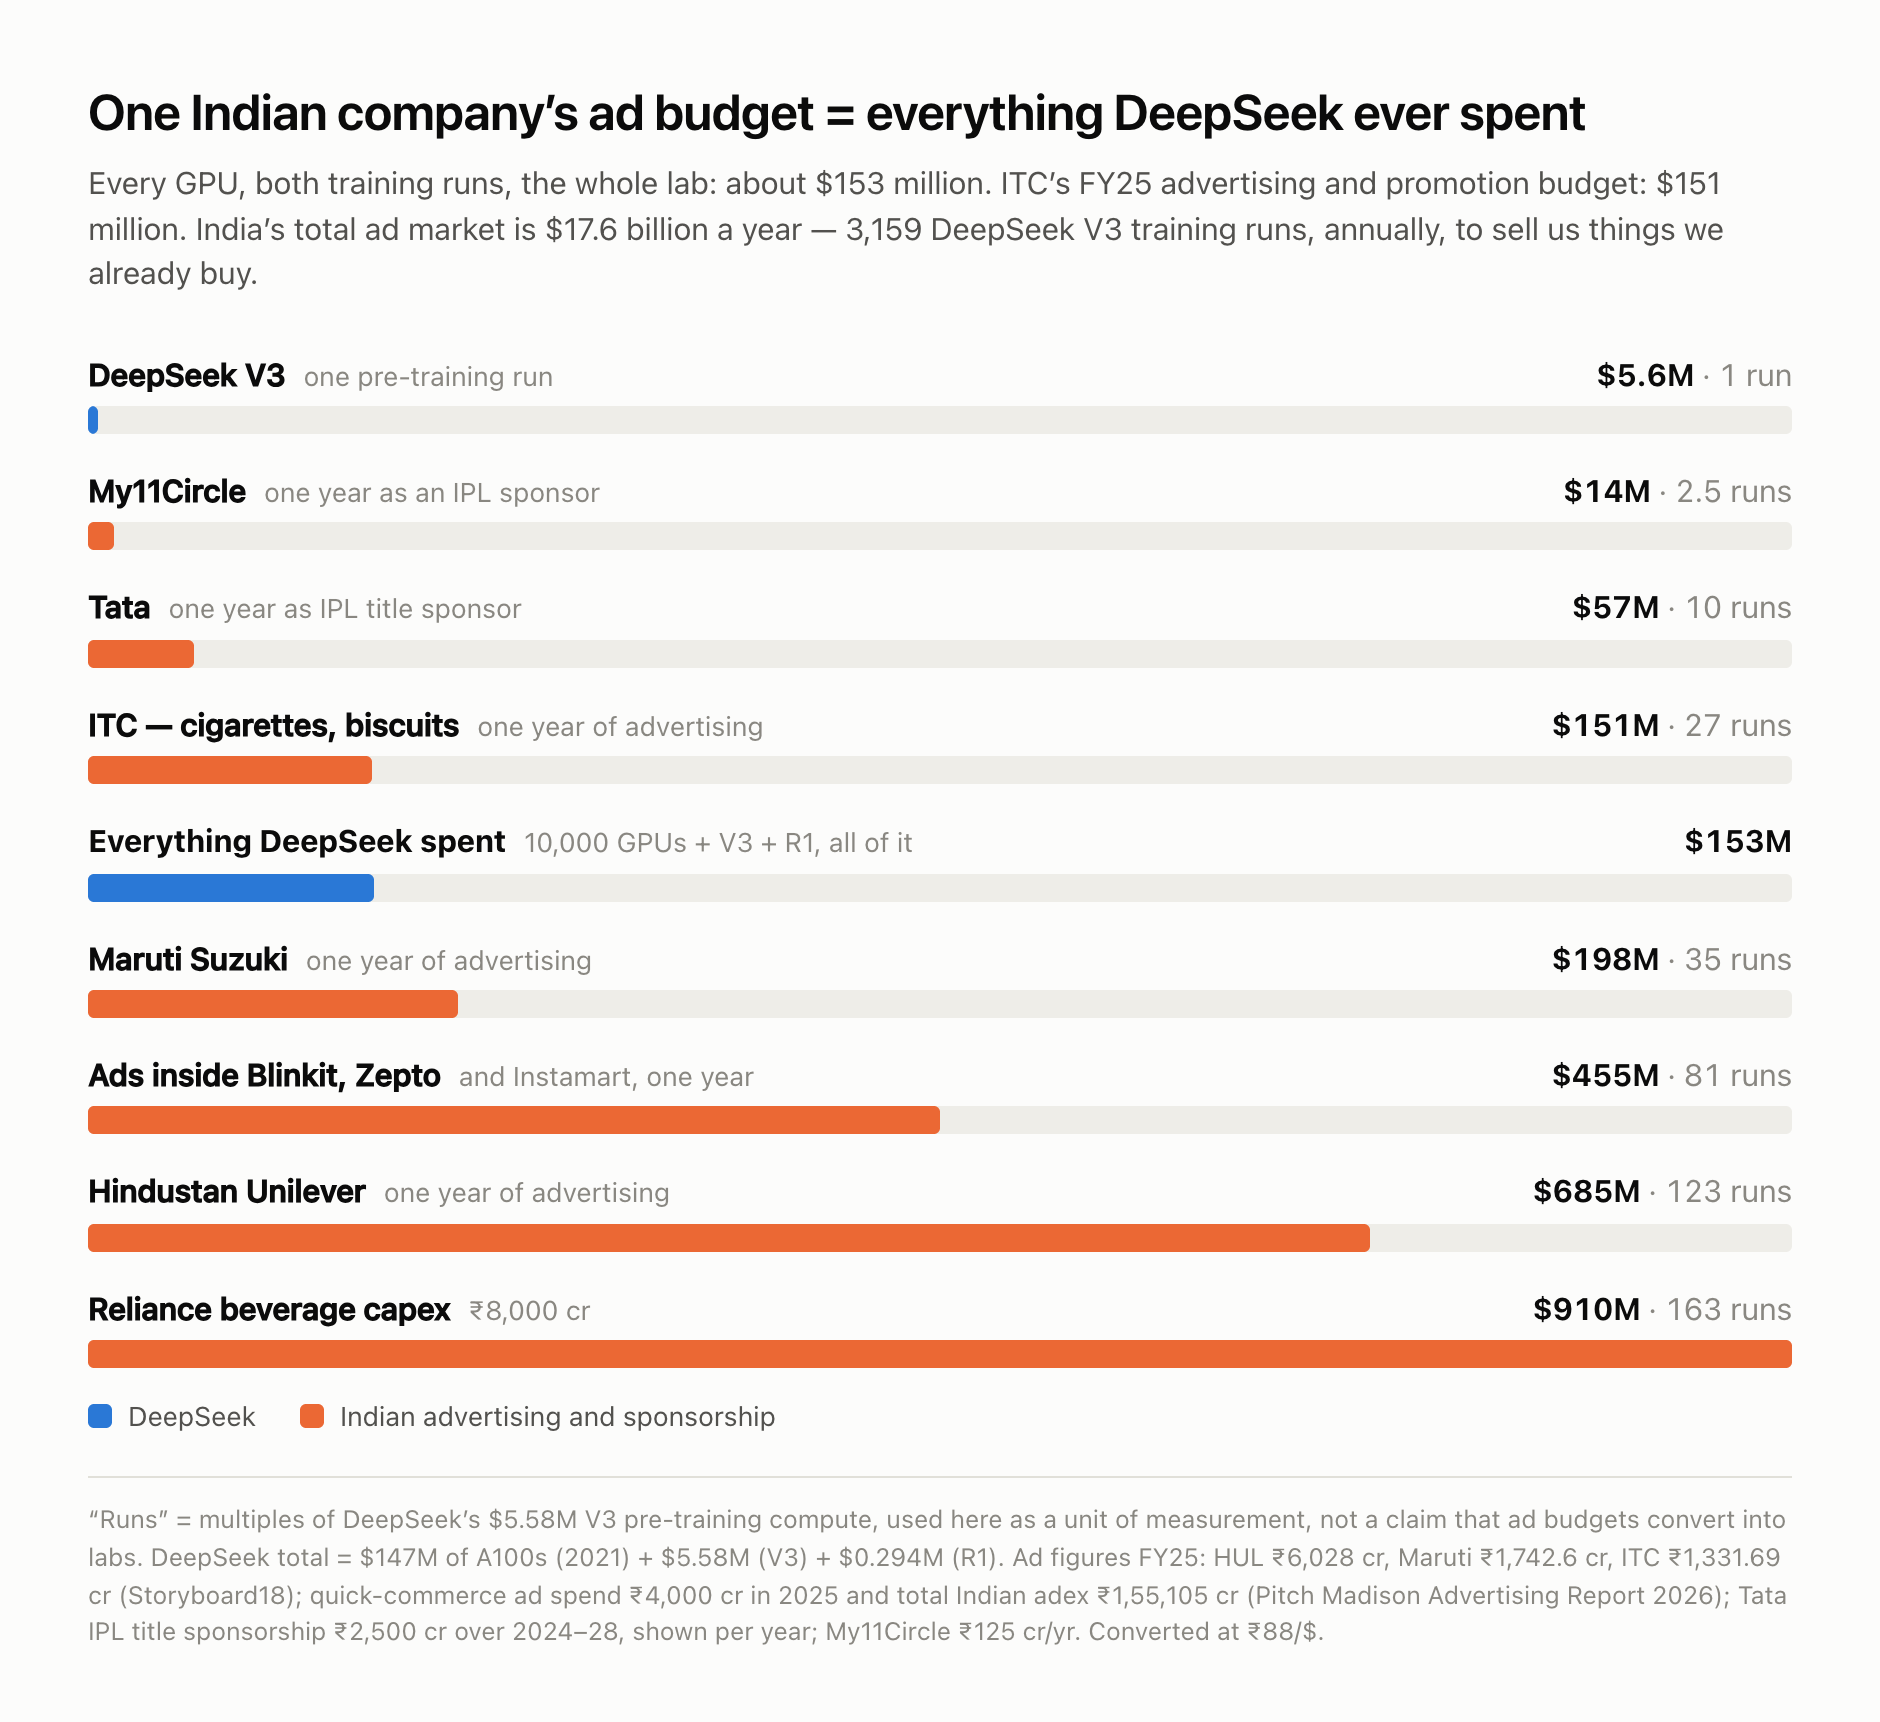
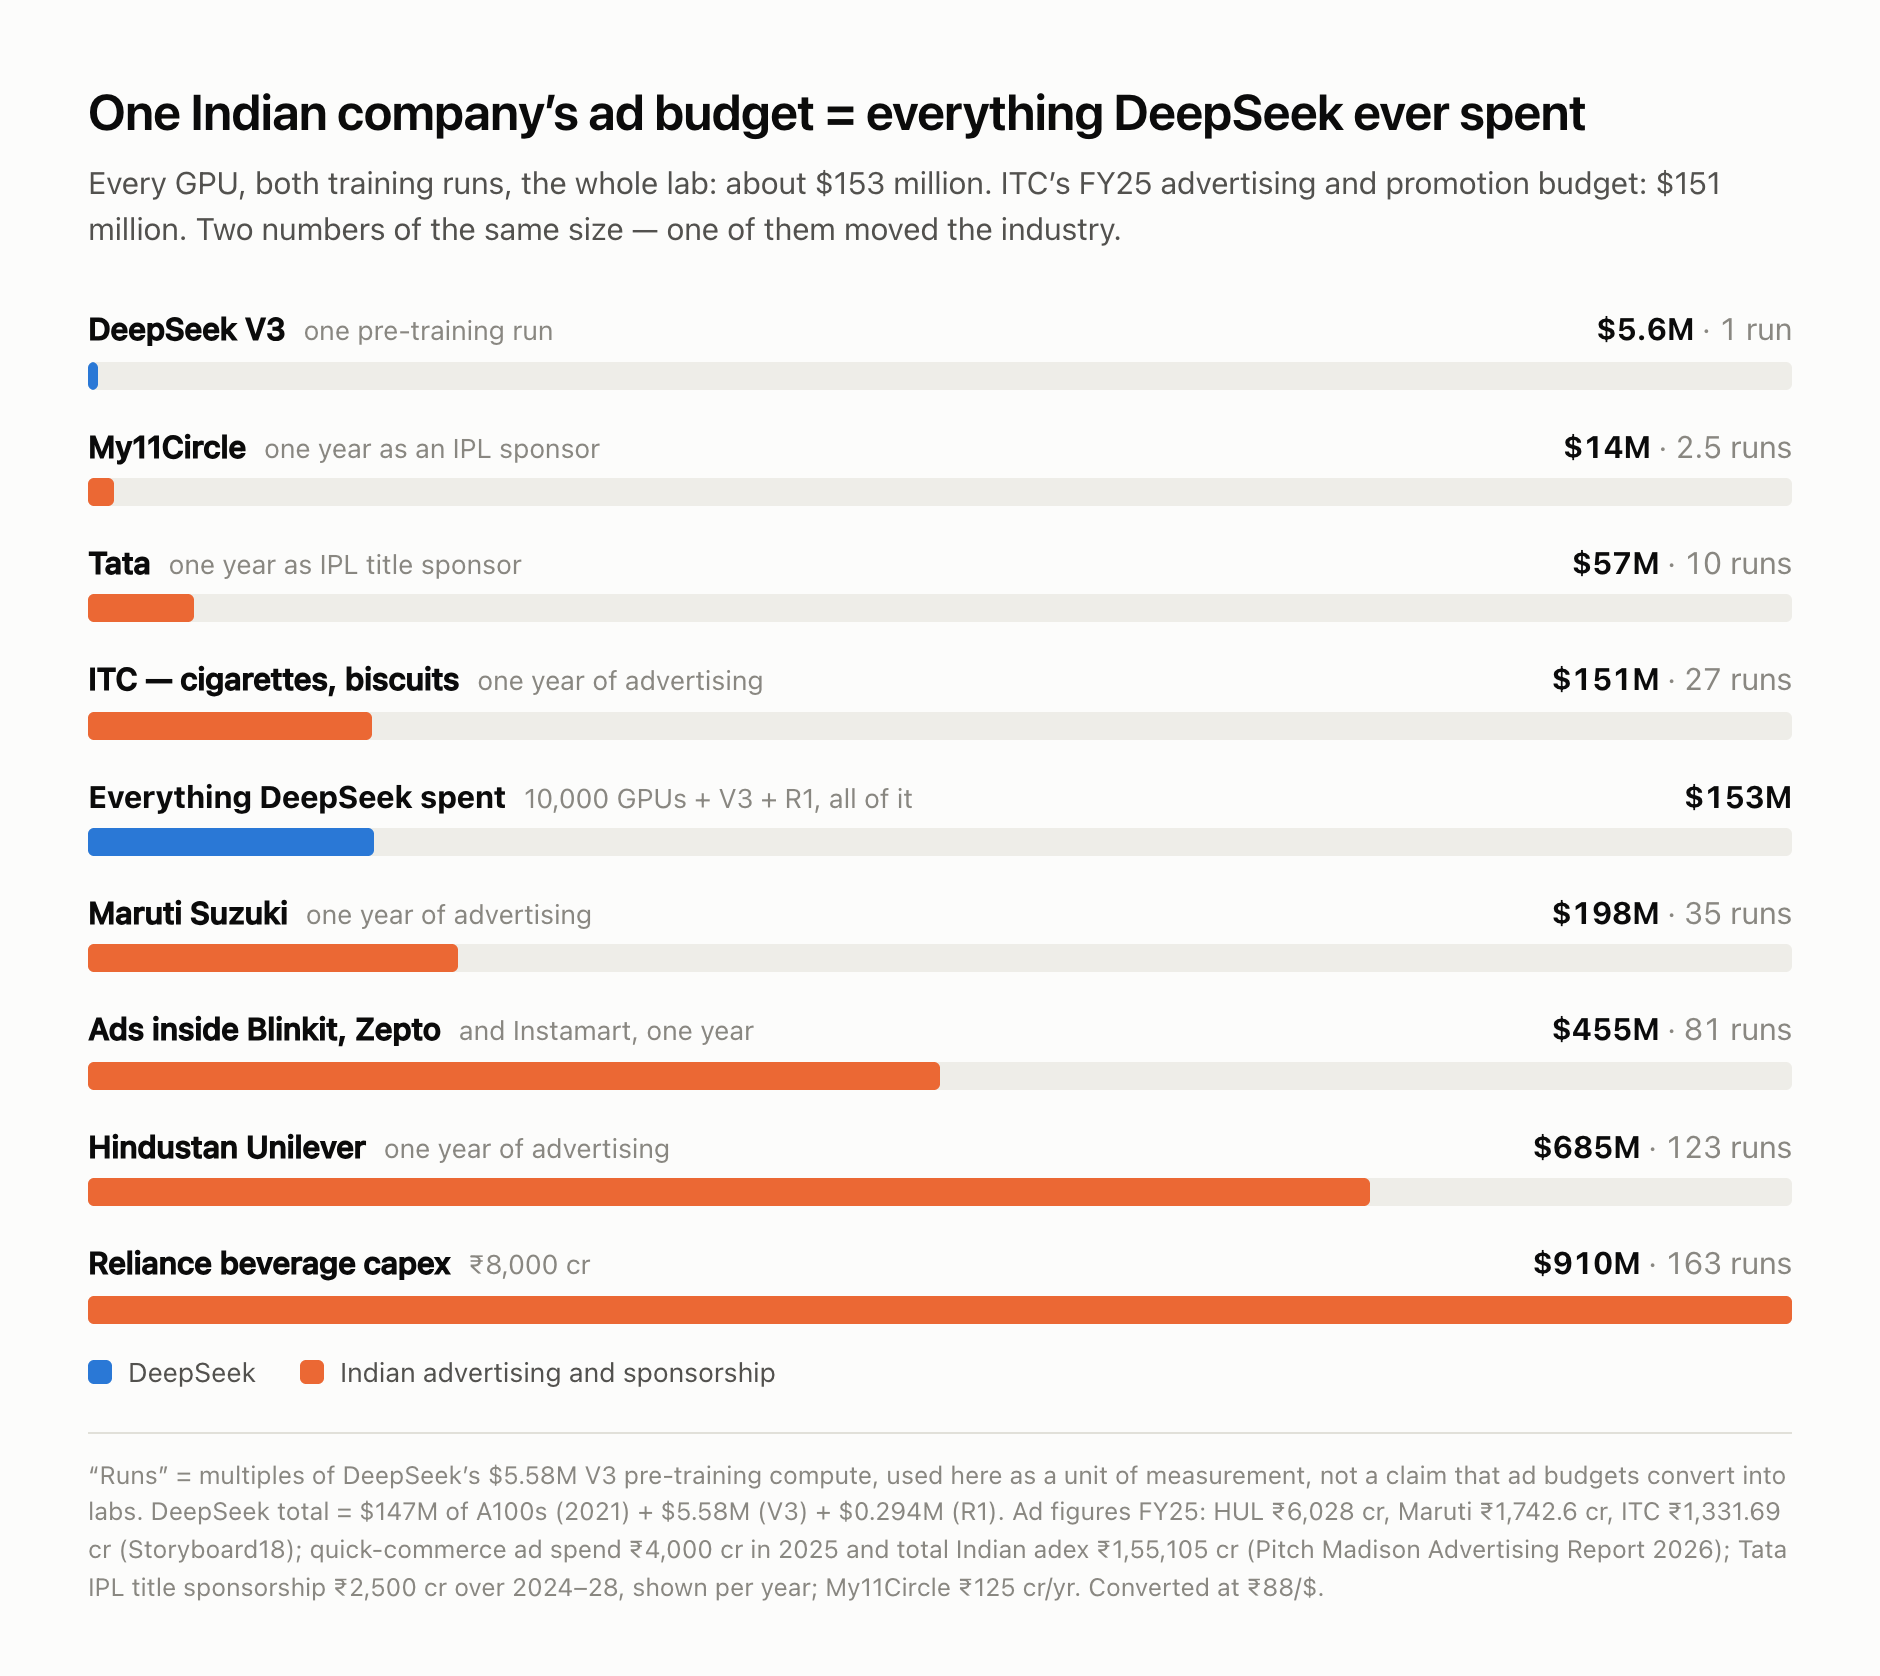
Cut the national-adex comparison
Running India's entire advertising market against a single training run
was a category error: a whole-economy figure spanning every company and
sector isn't comparable to one firm's project budget, and overreaching
there undermines the company-level comparisons that do hold. Removed
from the post and from the chart subtitle; the sources page records why.

diff --git a/_pages/theyll-spend-anything-sources.md b/_pages/theyll-spend-anything-sources.md
@@ -151,7 +151,7 @@ $1bn into Sarvam = **0.55%** of Ambani + Adani's combined $183bn, and **3.3×** 
 
 | Item | Value | Source |
 |---|---|---|
-| India total ad market, 2025 | **₹1,55,105 cr** (~$17.6bn); digital ₹93,156 cr (60%) | [Pitch Madison Advertising Report 2026](https://www.medianews4u.com/indias-ad-market-crosses-%E2%82%B91-55-lakh-crore-in-2025-digital-now-60-of-adex-madison-report-2026/) |
+| India total ad market, 2025 | **₹1,55,105 cr** (~$17.6bn); digital ₹93,156 cr (60%). *Cut from the piece — see note below.* | [Pitch Madison Advertising Report 2026](https://www.medianews4u.com/indias-ad-market-crosses-%E2%82%B91-55-lakh-crore-in-2025-digital-now-60-of-adex-madison-report-2026/) |
 | Hindustan Unilever, FY25 A&P | **₹6,028 cr** (~$685M), down from ₹6,380 cr | Storyboard18 |
 | Maruti Suzuki, FY25 ad + sales promotion | **₹1,742.6 cr** (~$198M), +11.42% | Storyboard18 |
 | ITC, FY25 ad + promotion | **₹1,331.69 cr** (~$151M), −3.89% YoY | Storyboard18 |
@@ -163,7 +163,9 @@ $1bn into Sarvam = **0.55%** of Ambani + Adani's combined $183bn, and **3.3×** 
 
 **"Everything DeepSeek spent" = $152.9M:** $147M (10,000 A100s, 2021) + $5.58M (V3 pre-training) + $0.294M (R1 RL). Against ITC's $151.3M — within 1%.
 
-**"Runs" as a unit.** Throughout the advertising chart I express budgets as multiples of DeepSeek's $5.58M V3 pre-training run. **This is a unit of measurement, not an economic claim.** Ad budgets do not convert into research labs; an FMCG company's advertising is how it generates the revenue that pays for everything else, and cutting it to zero would not produce a frontier model. The comparison is there to make the *scale* legible, because "$5.58 million" is a number most readers cannot place. India's total adex ÷ V3 run = 17,626 / 5.58 = **3,159**.
+**"Runs" as a unit.** Throughout the advertising chart I express budgets as multiples of DeepSeek's $5.58M V3 pre-training run. **This is a unit of measurement, not an economic claim.** Ad budgets do not convert into research labs; an FMCG company's advertising is how it generates the revenue that pays for everything else, and cutting it to zero would not produce a frontier model. The comparison is there to make the *scale* legible, because "$5.58 million" is a number most readers cannot place.
+
+**A comparison I cut.** An earlier draft ran India's *entire* national advertising market (₹1,55,105 cr / $17.6bn) against the training run: 3,159 runs a year. It's arithmetically correct and rhetorically useless — a whole-economy figure spanning every company and sector isn't comparable to one firm's project budget, and stretching it that far invites the reader to distrust the company-level comparisons that actually do hold. Company against company is the honest version, so that's what the piece keeps.
 
 **Reliance's own advertising line is not in this table** because RIL does not disclose it separately — it sits inside "other expenses" in the consolidated accounts. I looked.
 

diff --git a/_posts/2026-08-01-theyll-spend-anything.md b/_posts/2026-08-01-theyll-spend-anything.md
@@ -149,8 +149,6 @@ A company that sells cigarettes and biscuits spends, on advertising, in one year
 
 ![Everything DeepSeek spent, priced in Indian advertising](/assets/images/posts/theyll-spend-anything/04c-ad-vs-deepseek.png)
 
-India's entire advertising market in 2025 was ₹1.55 lakh crore. **$17.6 billion.** Three thousand one hundred and fifty-nine DeepSeek V3 training runs. Every single year, to sell us things we already buy.
-
 I'm not claiming ₹8,000 crore of cola money converts one-to-one into a frontier lab. It doesn't — you need people, data, and years, and both bets can be rational at once. I'm claiming the sentence "foundation models are too expensive for India" stopped being true somewhere around 2024, and our national AI doctrine is still built on it.
 
 ## What China's private money did while we were arguing
